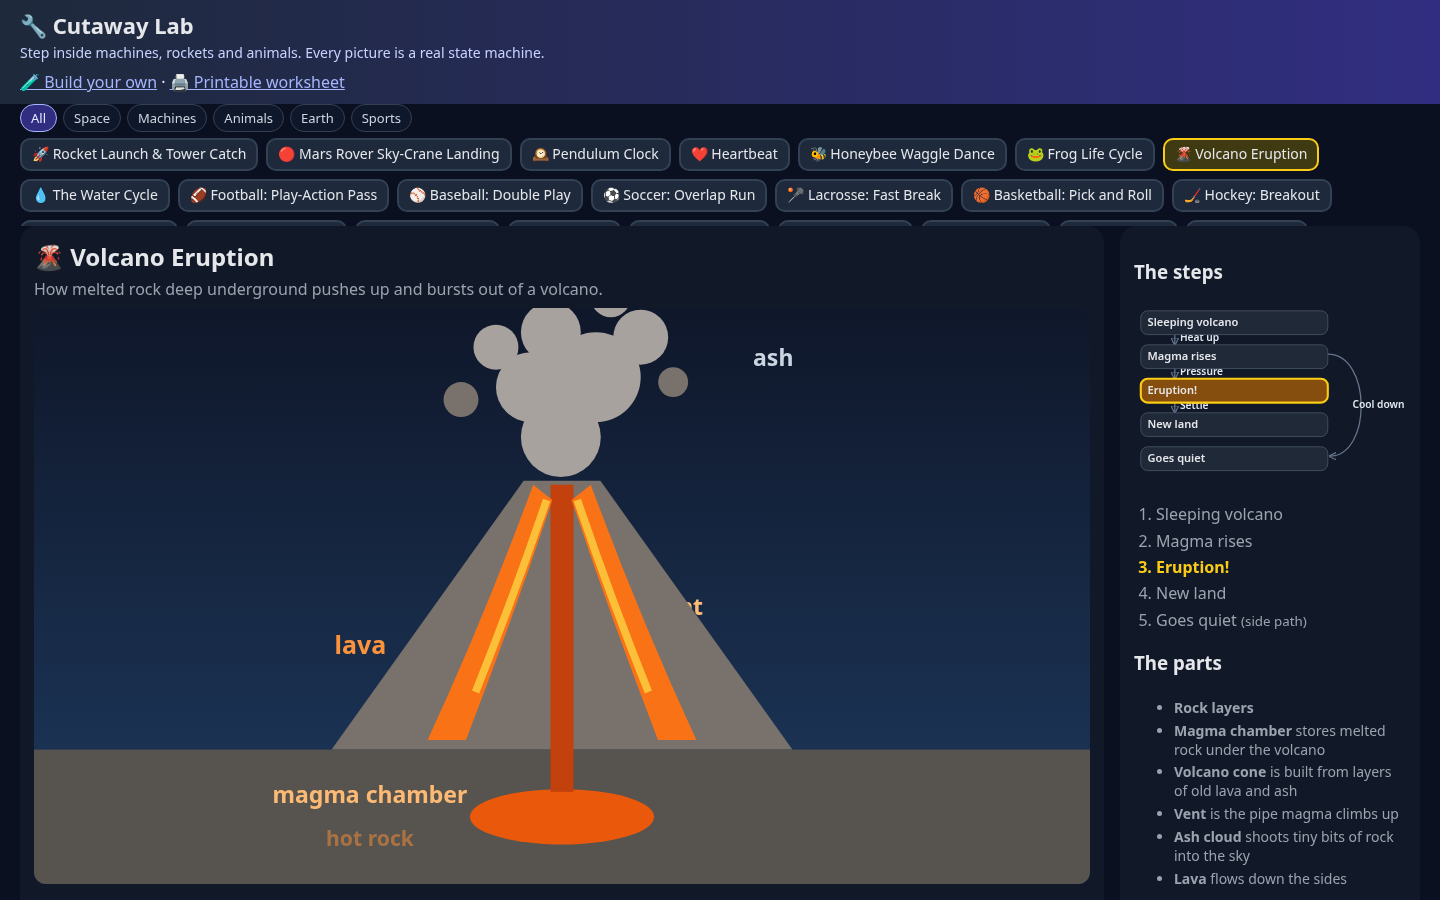
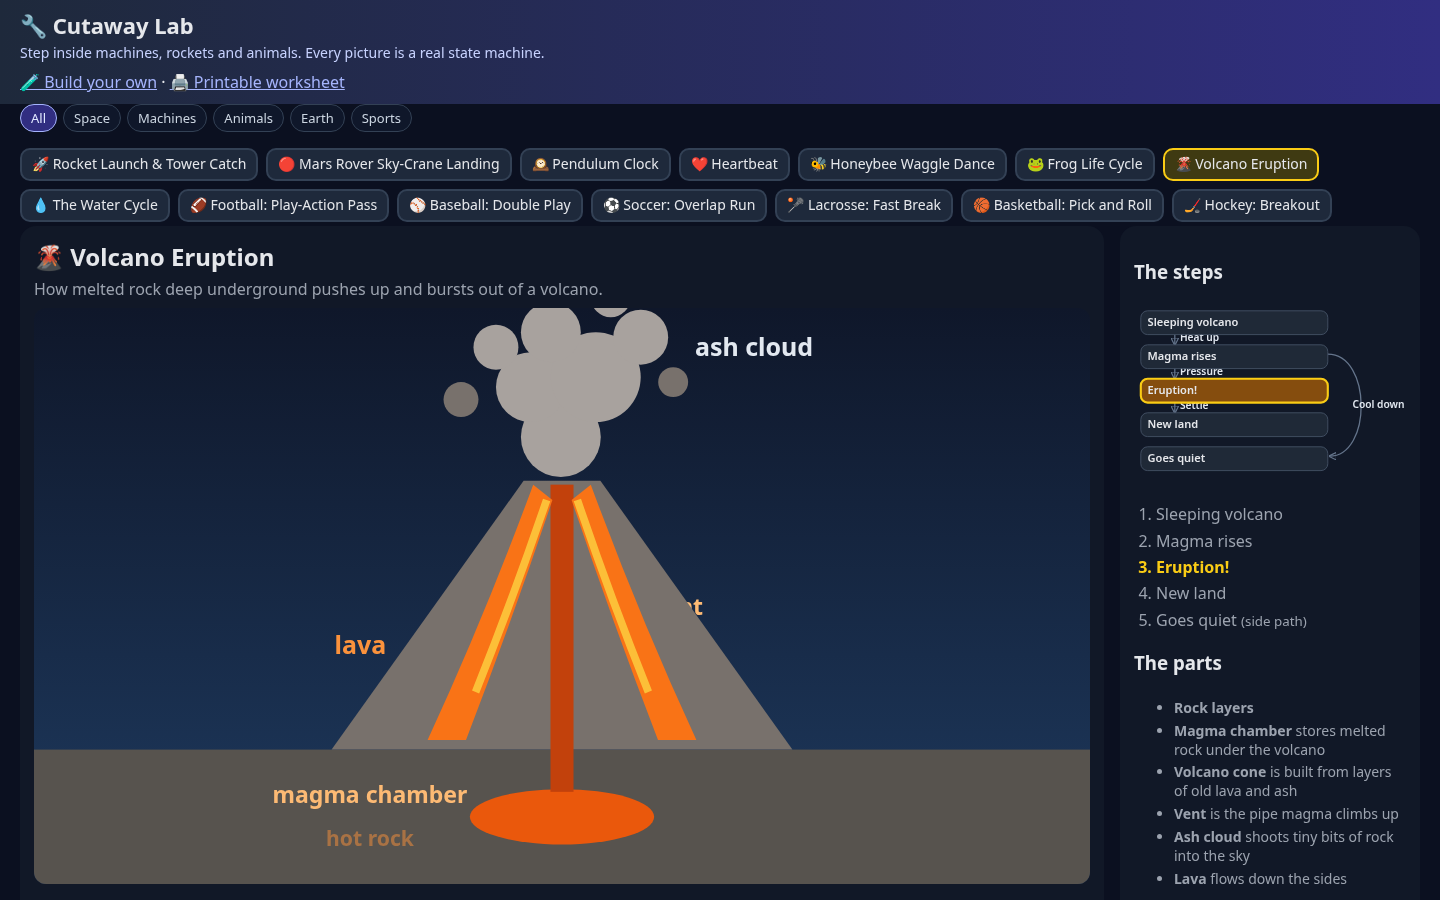
v1.0: ash-cloud label; tlc-all enumerates all 36; badge 720/60/36

Changed region(s): [[0.0, 0.1556, 0.9375, 0.2489], [0.4688, 0.3733, 0.5625, 0.4044]]

diff --git a/machines/volcano.js b/machines/volcano.js
@@ -14,7 +14,7 @@ export default {
     { id: 'lblLava', label: 'Lava label',
       svg: '<text x="95" y="180" text-anchor="middle" fill="#fb923c" font-size="13" font-weight="700">lava</text>', pose: { opacity: 0 } },
     { id: 'lblAsh', label: 'Ash label',
-      svg: '<text x="310" y="30" text-anchor="middle" fill="#cbd5e1" font-size="12" font-weight="700">ash</text>', pose: { opacity: 0 } },
+      svg: '<text x="300" y="25" text-anchor="middle" fill="#e2e8f0" font-size="13" font-weight="700">ash cloud</text>', pose: { opacity: 0 } },
     { id: 'mountain', label: 'Volcano cone', job: 'is built from layers of old lava and ash', svg: '<path d="M80 230 L180 90 H220 L320 230Z" fill="#78716c"/>' },
     { id: 'vent', label: 'Vent', job: 'is the pipe magma climbs up', svg: '<rect x="194" y="92" width="12" height="160" fill="#c2410c"/>', pose: { opacity: 0.3 }, explode: [70, 0] },
     { id: 'ash', label: 'Ash cloud', job: 'shoots tiny bits of rock into the sky', svg: '<g fill="#a8a29e"><circle cx="200" cy="70" r="16"/><circle cx="188" cy="50" r="14"/><circle cx="214" cy="46" r="18"/><circle cx="196" cy="28" r="12"/><circle cx="232" cy="30" r="11"/><circle cx="174" cy="34" r="9"/><circle cx="220" cy="14" r="8"/><circle cx="160" cy="55" r="7" fill="#78716c"/><circle cx="245" cy="48" r="6" fill="#78716c"/></g>', pose: { opacity: 0, scale: 0.3 } },

diff --git a/test/v1-quality-labels.test.js b/test/v1-quality-labels.test.js
@@ -72,4 +72,11 @@ describe('v1.0 quality labels', () => {
     const tlas = fs.readdirSync('formal').filter((f) => f.endsWith('.tla'));
     assert.equal(tlas.length, 36, tlas.join(','));
   });
+
+  it('tlc-all.sh enumerates every formal/*.tla', async () => {
+    const fs = await import('node:fs');
+    const sh = fs.readFileSync('formal/tlc-all.sh', 'utf8');
+    const tlas = fs.readdirSync('formal').filter((f) => f.endsWith('.tla')).map((f) => f.replace(/\.tla$/, ''));
+    for (const mod of tlas) assert.match(sh, new RegExp(`\\b${mod}\\b`), `tlc-all missing ${mod}`);
+  });
 });

diff --git a/docs/QUALITY.md b/docs/QUALITY.md
@@ -3,7 +3,7 @@
 Fleet **36**. Desk 1440×900 + phone 390×844. OCR clean.
 
 ## Guards / tests
-**719** unit · **60** e2e · **36** TLC · lbl* + ≥2 texts + quiz 5
+**720** unit · **60** e2e · **36** TLC · lbl* + ≥2 texts + quiz 5
 
 ## Side-path callouts (on-stage)
 SCRUB · eaten · safer spot · dead cells · jammed · tangle · stuck · blocked · sensor fault · snag · tip broke · thread jam · SHORT · slip · rope slipped · storm brake · empty · drowned · skewed · teeth skip · wilt · washed out · toss fault · skip to red · sports checkdown/safe/cut/reset/switch/chip

diff --git a/README.md b/README.md
@@ -4,7 +4,7 @@ Step inside rockets, bodies, sports plays, and everyday machines. Every animated
 
 ![demo](screenshots/demo.gif)
 
-**36 machines · zero runtime deps · quizzes · narrated videos · formal TLC models · 719 unit / 60 e2e / 36 TLC**
+**36 machines · zero runtime deps · quizzes · narrated videos · formal TLC models · 720 unit / 60 e2e / 36 TLC**
 
 ## Quickstart (2 minutes)
 
